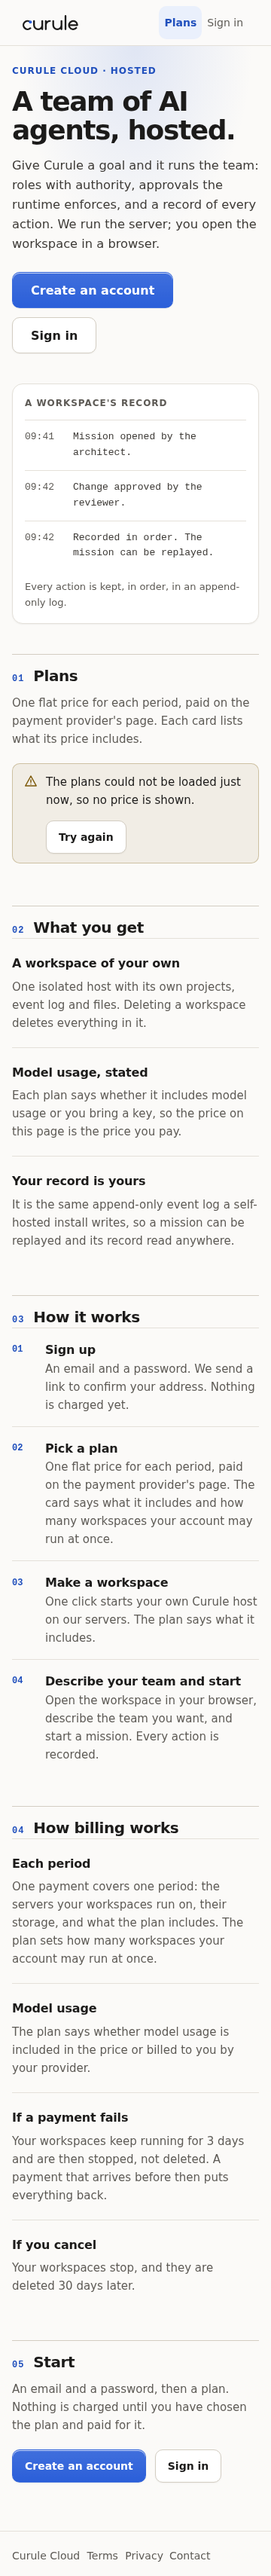
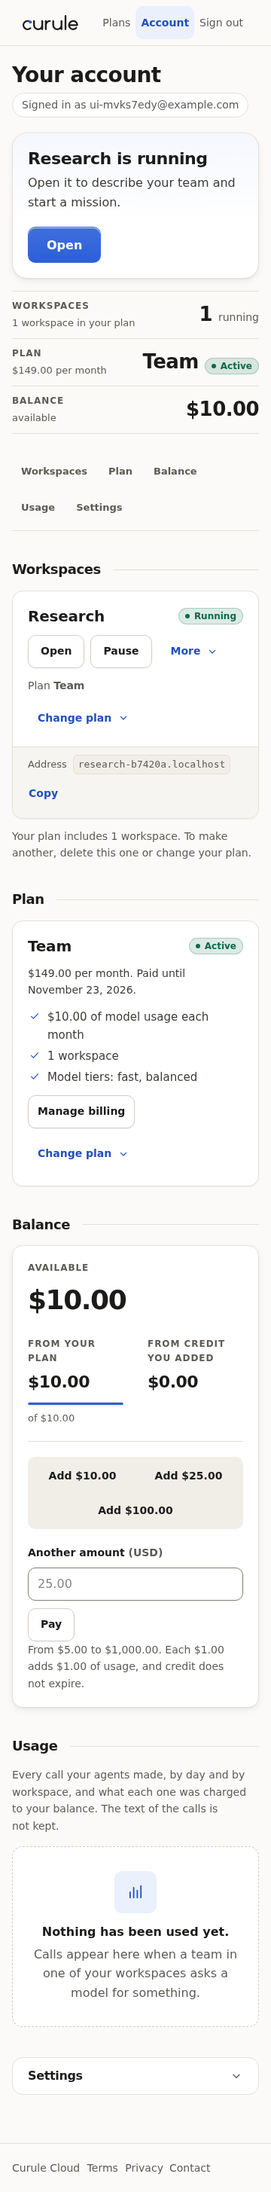
chore(ux): the three passes of 2026-10-23, with their before and after
The public site, the account pages and the console each had a measured pass today. The
record now carries all three, newest first: the phone's first screen that reaches the
product, the sign-in rail beside the form, and the console's names a person can say.
The three 'where they stand now' captures are the state after these passes. Suite green
(6290 pass, 2 skipped), typecheck clean, lint 0 errors.

diff --git a/site/ux/index.html b/site/ux/index.html
@@ -52,7 +52,34 @@
   <h2>Where they stand now</h2>
   <div class="pair three"><a class="shot" href="shots/landing-now.png"><img src="shots/landing-now.png" alt="the landing page" loading="lazy"><span>the landing page</span></a><a class="shot" href="shots/account-now.png"><img src="shots/account-now.png" alt="the account pages" loading="lazy"><span>the account pages</span></a><a class="shot" href="shots/console-now.png"><img src="shots/console-now.png" alt="the console" loading="lazy"><span>the console</span></a></div>
 </section>
-<p class="stat"><span><b>9</b> passes</span><span><b>8</b> merged</span><span><b>4</b> surfaces</span><span>updated 23 Oct 2026 12:34</span></p>
+<p class="stat"><span><b>12</b> passes</span><span><b>11</b> merged</span><span><b>4</b> surfaces</span><span>updated 23 Oct 2026 14:15</span></p>
+<article class="pass">
+  <header>
+    <h2>the landing page</h2>
+    <p class="when">23 Oct 2026 · 14:05</p>
+  </header>
+  <div class="pair"><a class="shot" href="shots/20261023-1405-before.png"><img src="shots/20261023-1405-before.png" alt="before this pass" loading="lazy"><span>before this pass</span></a><a class="shot" href="shots/20261023-1405-after.png"><img src="shots/20261023-1405-after.png" alt="after" loading="lazy"><span>after</span></a></div>
+  <ul class="did"><li>The phone's first screen carries the product. At 360 × 800 the actions end at <b>500</b> (was 532), the view tabs sit at <b>568</b> (was 721) and the frame begins at <b>634</b> (was 787), so the capture starts on the screen instead of under its edge. Only the note under the actions moved, by CSS order; the DOM and its one button are unchanged.</li><li>The six console views are numbered <b>01–06</b> in the same 12 px tabular figure and hairline as the section eyebrows. Six identical blocks now read as one row of the ledger, and a thumb can tell where in it it is.</li><li>The comparison table is <b>660 px</b> with 12/14 px cells, so at 768 both tables fit their box exactly; the swipe hint shows only below 720, where the table really scrolls. At 360 the plans begin at <b>1,924</b> (was 2,000) and the page is <b>12,632 px</b> (was 12,626).</li><li>The Graph capture got the &ldquo;Full size&rdquo; link every other capture had; print lays the rows out and shows both prices; the docs filter's no-match state takes the empty map with it; every sideways row contains its own gesture.</li></ul>
+  <p class="meta">10 files changed · <code>8a38600</code> · suite green, merged</p>
+</article>
+<article class="pass">
+  <header>
+    <h2>the account pages</h2>
+    <p class="when">23 Oct 2026 · 14:10</p>
+  </header>
+  <div class="pair"><a class="shot" href="shots/20261023-1410-before.png"><img src="shots/20261023-1410-before.png" alt="before this pass" loading="lazy"><span>before this pass</span></a><a class="shot" href="shots/20261023-1410-after.png"><img src="shots/20261023-1410-after.png" alt="after" loading="lazy"><span>after</span></a></div>
+  <ul class="did"><li>The service home is one ledger: three facts in columns from 1000, the four steps a 2 × 2 grid, every entry on the same <b>14 px</b> rhythm, each list closing on a rule, and a 15 px byline naming the operator the terms already name. <b>4,364 → 4,311 px</b> at 360.</li><li>The sign-in rail stands beside the form from 1000 (448 + 320, gap 48–96) in the same DOM order the test requires: signup <b>1,444 → 975 px</b> at 1440, and the marked step follows the reader after a link is sent, or a link is dead.</li><li>A workspace card leads with its name at <b>20 px/650</b> and the state at the card's right edge; on a phone the three figures are three ruled entries, not three cards (the glance <b>220 → 190 px</b>; the page <b>2,944 → 2,910 px</b> at 360).</li><li>The account's loading state says &ldquo;Loading your account.&rdquo; in its live region while the skeleton is up, and the skeleton's tiles stack as the figures do.</li></ul>
+  <p class="meta">4 files changed · <code>f5243c2</code> · suite green, merged</p>
+</article>
+<article class="pass">
+  <header>
+    <h2>the console</h2>
+    <p class="when">23 Oct 2026 · 14:15</p>
+  </header>
+  <div class="pair"><a class="shot" href="shots/20261023-1415-before.png"><img src="shots/20261023-1415-before.png" alt="before this pass" loading="lazy"><span>before this pass</span></a><a class="shot" href="shots/20261023-1415-after.png"><img src="shots/20261023-1415-after.png" alt="after" loading="lazy"><span>after</span></a></div>
+  <ul class="did"><li><b>Label in Name (WCAG 2.5.3).</b> The designer's dock button, the desktop Graph seats, the phone Graph rows and the ranked &ldquo;See messages&rdquo; links now take their names from the words drawn inside them. axe: <b>166 nodes in 50 of 78</b> view/width/theme pairs <b>→ 0 in 78</b>; a regression test holds the rule and nothing visible changed.</li><li>The Overview's five actions read as two rows from 1280 (hero <b>372 → 325 px</b>, actions <b>140 → 88 px</b>); on a phone the quiet actions lose their decorative icons and fit one row at 390 (actions <b>200 → 144 px</b>), and the goal shows its whole sentence on three lines instead of being cut at &ldquo;payment…&rdquo;.</li><li>An Events fold whose events fell in one clock second printed the same time twice. It prints it once: on the delivered demo, <b>18 folds</b>, each <b>127 → 54 px</b>, about 1.3k px of repeated clock removed.</li><li>The kit gallery has its h1 and no longer adds 3 px of page scroll at 390; below 380 the open-menu specimen scrolls inside its own stage.</li></ul>
+  <p class="meta">10 files changed · <code>706679e</code> · suite green, merged</p>
+</article>
 <article class="pass">
   <header>
     <h2>the designer</h2>
